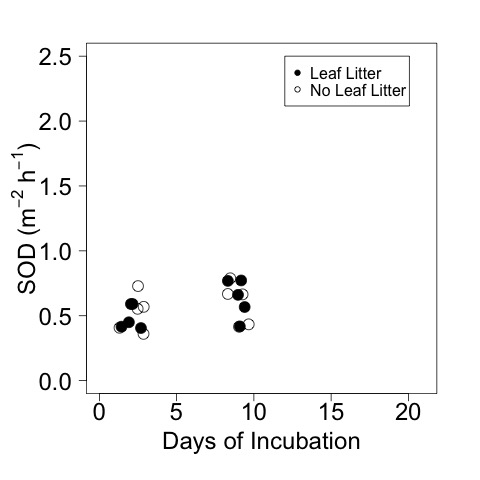
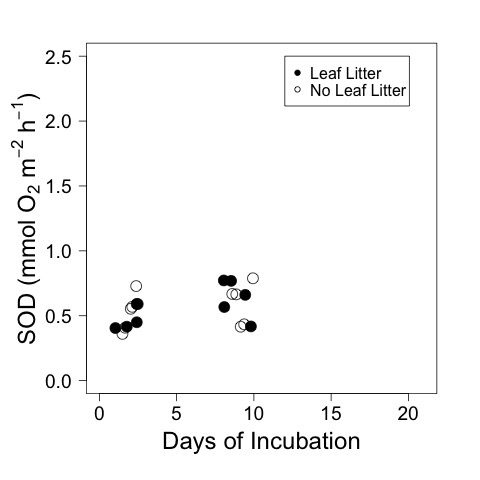
plots

diff --git a/lab_notebook/analysis/leached_litter_Spring_SOD_Analysis.md b/lab_notebook/analysis/leached_litter_Spring_SOD_Analysis.md
@@ -35,7 +35,7 @@ Flux calculations can be found in [leached_litter_Spring_sod_calc_11feb2016.md](
 ## Analysis
     
     par(las = 1, mar = c(6, 6, 3, 3))
-    plot(SOD ~ jitter(days.elap, 0.7), data = sod, subset = treatment == "LS", ylim = c(0, 2.5), xlim = c(0, 21), xlab = "Days of Incubation", ylab = expression(paste("SOD (m"^{-2}, " h"^{-1}, ")")), pch = 19, cex.axis = 1.5, cex.lab = 1.5, cex = 2)
+    plot(SOD ~ jitter(days.elap, 0.7), data = sod, subset = treatment == "LS", ylim = c(0, 2.5), xlim = c(0, 21), xlab = "Days of Incubation", ylab = expression(paste("SOD (mmol ", O[2], " m"^{-2}, " h"^{-1}, ")")), pch = 19, cex.axis = 1.2, cex.lab = 1.5, cex = 2)
     points(SOD ~ jitter(days.elap, 0.7), data = sod, subset = treatment == "S", pch = 1, cex = 2)
     legend(12, 2.5, c("Leaf Litter  ", "No Leaf Litter  "), pch = c(19, 1), cex = 1)
     dev.copy(jpeg, "./output/plots/leached_litter_SOD_by_days.jpg")

diff --git a/lab_notebook/analysis/CPOM_Flux_SOD_Analysis.md b/lab_notebook/analysis/CPOM_Flux_SOD_Analysis.md
@@ -311,7 +311,7 @@ in umol / (g OM) / h
 
     # Plot of Area-normalized SOD by days of incubation 
     par(las = 1, mar = c(6, 6, 3, 3))
-    plot(SOD ~ jitter(days.elap, 1), data = sod, subset = CPOM == "yes", ylim = c(0, 2.5), xlab = "Days of Incubation", ylab = expression(paste("SOD (m"^{-2}, " h"^{-1}, ")")), pch = 19, cex.axis = 1.5, cex.lab = 1.5, cex = 2)
+    plot(SOD ~ jitter(days.elap, 1), data = sod, subset = CPOM == "yes", ylim = c(0, 2.5), xlab = "Days of Incubation", ylab = expression(paste("SOD (mmol O"[2], " m"^{-2}, " h"^{-1}, ")")), pch = 19, cex.axis = 1.2, cex.lab = 1.5, cex = 2)
     points(SOD ~ jitter(days.elap, 1), data = sod, subset = CPOM == "no", pch = 1, cex = 2)
     legend(12, 2.5, c("Leaf Litter  ", "No Leaf Litter  "), pch = c(19, 1), cex = 1)
     dev.copy(jpeg, "./output/plots/SOD_by_days.jpg")
